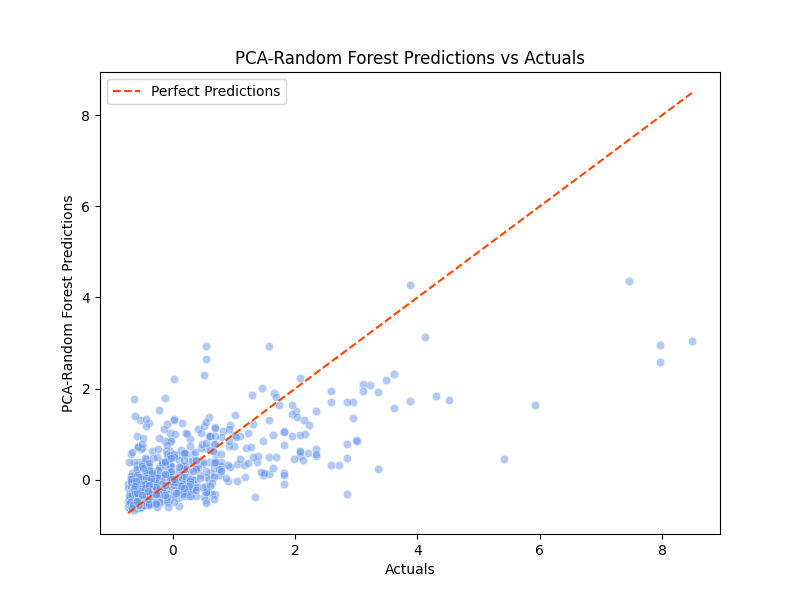
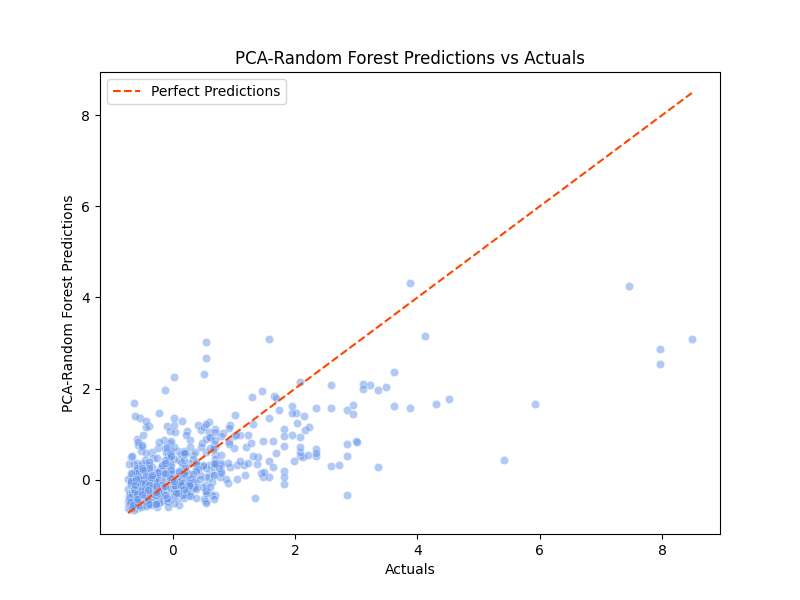
tuned RF parameters and generated model output. weak performance overall. will consider adding XGBoost models on PCA data later if time allows it. updated metrics XL with RF stats.

diff --git a/pca_model_fitting.py b/pca_model_fitting.py
@@ -9,7 +9,7 @@ import os
 import numpy as np
 import matplotlib.pyplot as plt
 import seaborn as sns
-from sklearn.model_selection import train_test_split
+from sklearn.model_selection import train_test_split, GridSearchCV
 from sklearn.decomposition import PCA
 import statsmodels.api as sm
 from sklearn.ensemble import RandomForestRegressor
@@ -74,6 +74,23 @@ def fit_ols_on_pca(x_train_pca, x_test_pca, y_train):
     return train_ols_results
 
 
+# Function that computes model performance metrics and prints them:
+def model_performance_metrics(test_actuals, model_predictions, model_name : str):
+
+    # Define metrics using sklearn:
+    mae = mean_absolute_error(test_actuals, model_predictions)
+    mse = mean_squared_error(test_actuals, model_predictions)
+    rmse = np.sqrt(mse)
+    mape = mean_absolute_percentage_error(test_actuals, model_predictions)
+    MedAE = median_absolute_error(test_actuals, model_predictions)
+    r_squared = r2_score(test_actuals, model_predictions)
+    errors = [mae, mse, rmse, mape, MedAE, r_squared]
+
+    # Print error metrics:
+    for var, name in zip(errors, ['MAE', 'MSE', 'RMSE', 'MAPE', 'MedAE', 'R-Squared']):
+        print(f'\n{model_name} - {name}: {var:.4f}\n')
+
+
 # Function that generates a residual plot for a trained model fit:
 def resid_plot(model_results, model_name : str):
 
@@ -126,11 +143,11 @@ def main():
 
     # ------------ Start of PCA-OLS model fitting ------------
 
-    # Add a constant column to the pca feature dataframes:
-    X_train_pca_with_constant = sm.add_constant(X_train_pca)
-    X_test_pca_with_constant = sm.add_constant(X_test_pca)
+    # # Add a constant column to the pca feature dataframes:
+    # X_train_pca_with_constant = sm.add_constant(X_train_pca)
+    # X_test_pca_with_constant = sm.add_constant(X_test_pca)
 
-    # # # Fit the OLS model:
+    # # Fit the OLS model:
     # train_ols_model = sm.OLS(y_train_df, X_train_pca_with_constant) # Y from training data against principle components from training data
     # train_ols_results = train_ols_model.fit()
 
@@ -140,17 +157,8 @@ def main():
     # # Use the OLS model to predict the TEST data:
     # ols_test_pred = train_ols_results.predict(X_test_pca_with_constant)
 
-    # # OLS Error Metrics:
-    # ols_mae = mean_absolute_error(y_test_df, ols_test_pred)
-    # ols_mse = mean_squared_error(y_test_df, ols_test_pred)
-    # ols_rmse = np.sqrt(ols_mse)
-    # ols_mape = mean_absolute_percentage_error(y_test_df, ols_test_pred)
-    # ols_MedAE = median_absolute_error(y_test_df, ols_test_pred)
-    # ols_errors = [ols_mae, ols_mse, ols_rmse, ols_mape, ols_MedAE]
-
     # # Print OLS error metrics:
-    # for var, name in zip(ols_errors, ['MAE', 'MSE', 'RMSE', 'RMSE', 'MAPE', 'MedAE']):
-    #     print(f'\nOLS with PCA Component Predictors - {name}: {var:.4f}\n')
+    # model_performance_metrics(y_test_df, ols_test_pred, 'PCA-OLS')
 
     # OLS performance evaluation visuals:
 
@@ -162,8 +170,34 @@ def main():
 
     # ------------ Start of PCA-Random Forest model fitting ------------
 
-    # Initialize the random forest model:
-    rf_pca = RandomForestRegressor(n_estimators = 100, random_state = 42)
+    # # Define the random forest parameter search space for tuning:
+    # rf_search_space = {'n_estimators' : [25, 50, 100], #, 200, 500],
+    #                    'max_depth' : [None, 3, 5], #, 10, 20],
+    #                    'min_samples_split' : [2, 5, 9] #, 10]
+    #                    } 
+    
+    # # Initiate an RF model with no parameters:
+    # rf_model = RandomForestRegressor(random_state=42)
+
+    # # Use CV Grid Searching to tune RF hyperparameters:
+    # RF_GS = GridSearchCV(estimator=rf_model,
+    #                      param_grid=rf_search_space,
+    #                      scoring="neg_root_mean_squared_error",
+    #                      refit=True,
+    #                      cv = 5,
+    #                      n_jobs=-1) # use -1 to let the program use ALL CPU cores
+    # RF_GS_fit = RF_GS.fit(X_train_pca, y_train_df)
+    
+    # # Extract the best parameters and estimator:
+    # rf_best_params = RF_GS_fit.best_params_
+    # print(f"\nRF Parameters Used: \n{rf_best_params}\n")
+    # rf_best_estimator = RF_GS_fit.best_estimator_
+
+    # # Fit the best estimator on the test PCA data:
+    # rf_pred = rf_best_estimator.predict(X_test_pca)
+    
+    # Initialize the random forest model using tuned parameters from previous step:
+    rf_pca = RandomForestRegressor(n_estimators = 100, random_state = 42, min_samples_split=5, max_depth=None)
 
     # Train the random forest model on the training PCA data:
     train_rf_results = rf_pca.fit(X_train_pca, y_train_df)
@@ -171,18 +205,8 @@ def main():
     # Predict the test PCA data:
     rf_pred = train_rf_results.predict(X_test_pca)
 
-    # RF Error Metrics:
-    rf_mae = mean_absolute_error(y_test_df, rf_pred)
-    rf_mse = mean_squared_error(y_test_df, rf_pred)
-    rf_rmse = np.sqrt(rf_mse)
-    rf_mape = mean_absolute_percentage_error(y_test_df, rf_pred)
-    rf_MedAE = median_absolute_error(y_test_df, rf_pred)
-    rf_r_squared = r2_score(y_test_df, rf_pred)
-    rf_errors = [rf_mae, rf_mse, rf_rmse, rf_mape, rf_MedAE]
-
-    # Print OLS error metrics:
-    for var, name in zip(rf_errors, ['MAE', 'MSE', 'RMSE', 'RMSE', 'MAPE', 'MedAE']):
-        print(f'\nRandom Forest with PCA Component Predictors - {name}: {var:.4f}\n')
+    # Random Forest error metrics:
+    model_performance_metrics(y_test_df, rf_pred, 'PCA Random Forest')
 
     # Random Forest performance evaluation visuals:
     pred_vs_actuals_plot(y_test_df, rf_pred, 'PCA-Random Forest')
